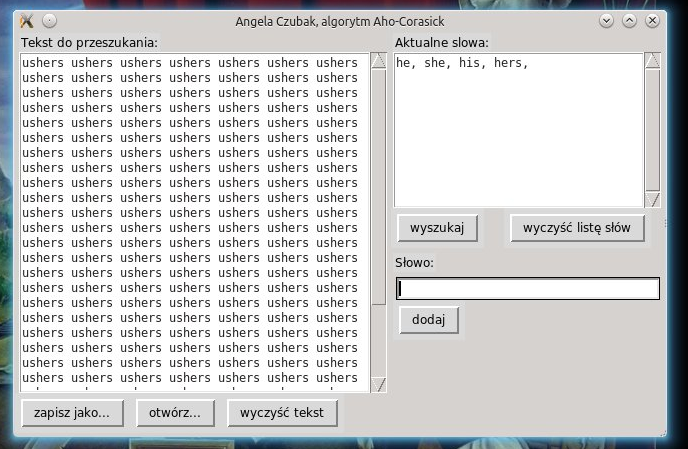
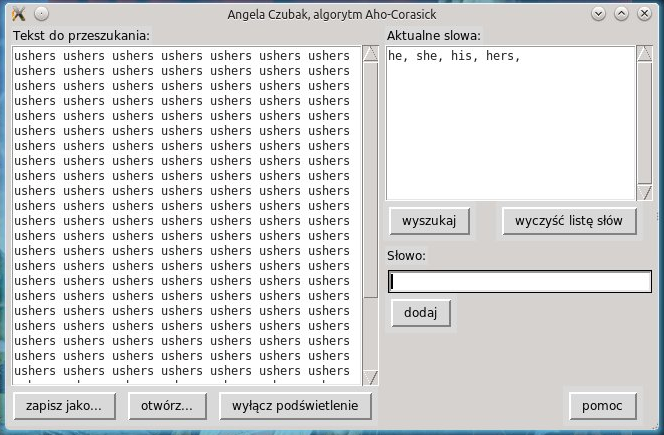
Dodano poprawione zrzuty ekranu, poprawiono pomoc - nie można już tam wprowadzać tekstu

diff --git a/program.py b/program.py
@@ -22,7 +22,7 @@ class Pomoc(Frame):
 	self.rowconfigure(1, weight=1)
 	self.label = Label(self, text="Treść pomocy")
 	self.label.grid(row=0, column=0, sticky=W)
-	self.tekst = ScrolledText(self, bg="white")
+	self.tekst = ScrolledText(self, bg="white", wrap=WORD)
 	self.tekst.grid(row=1, column=0, sticky=E+W+N+S)
 	self.wczytajPomoc()
     def wczytajPomoc(self):
@@ -40,6 +40,7 @@ class Pomoc(Frame):
 	    if read:
 		self.tekst.delete("1.0", "end")
 		self.tekst.insert("1.0", wiadomosc)
+		self.tekst.config(state=DISABLED)
 	    if opened:
 		plik.close()
 
